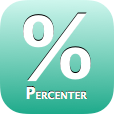
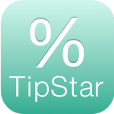
rebranding

diff --git a/README.md b/README.md
@@ -1,0 +1,4 @@
+Tip Star
+=========
+
+A responsive tip and percentage calculator.
